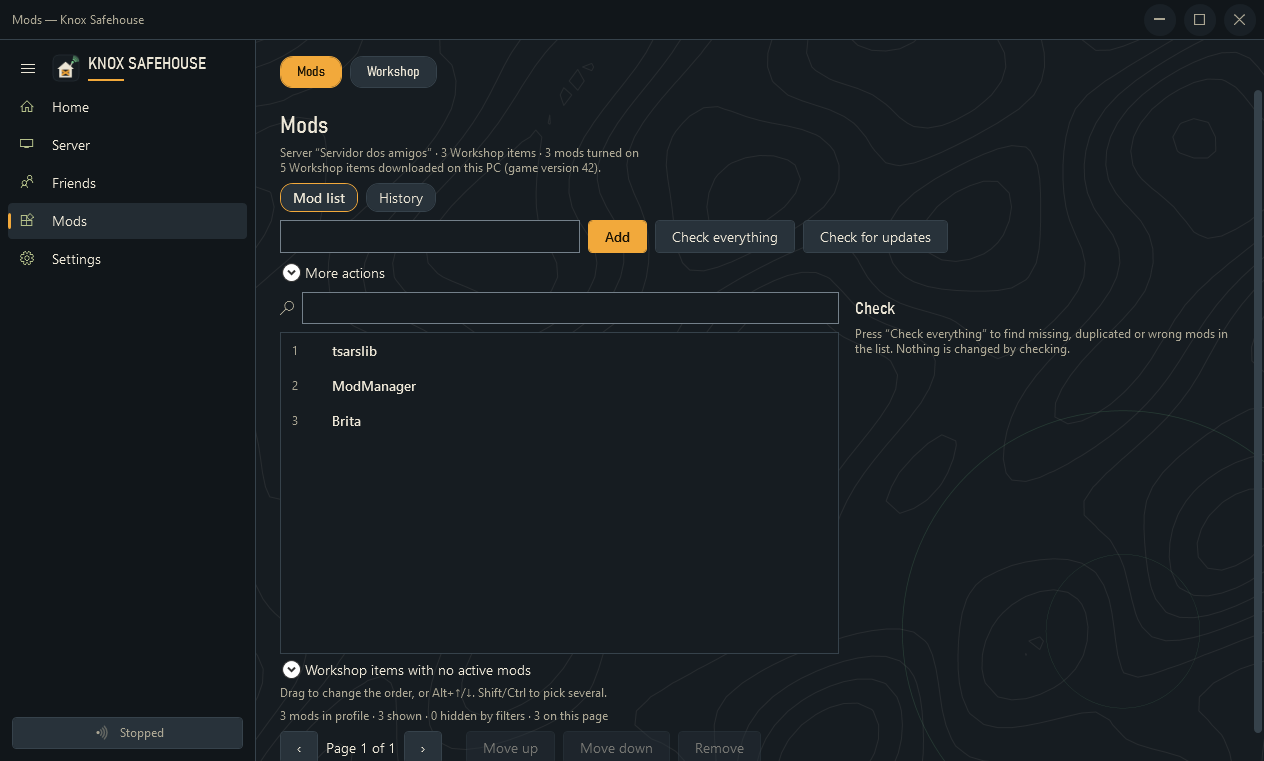
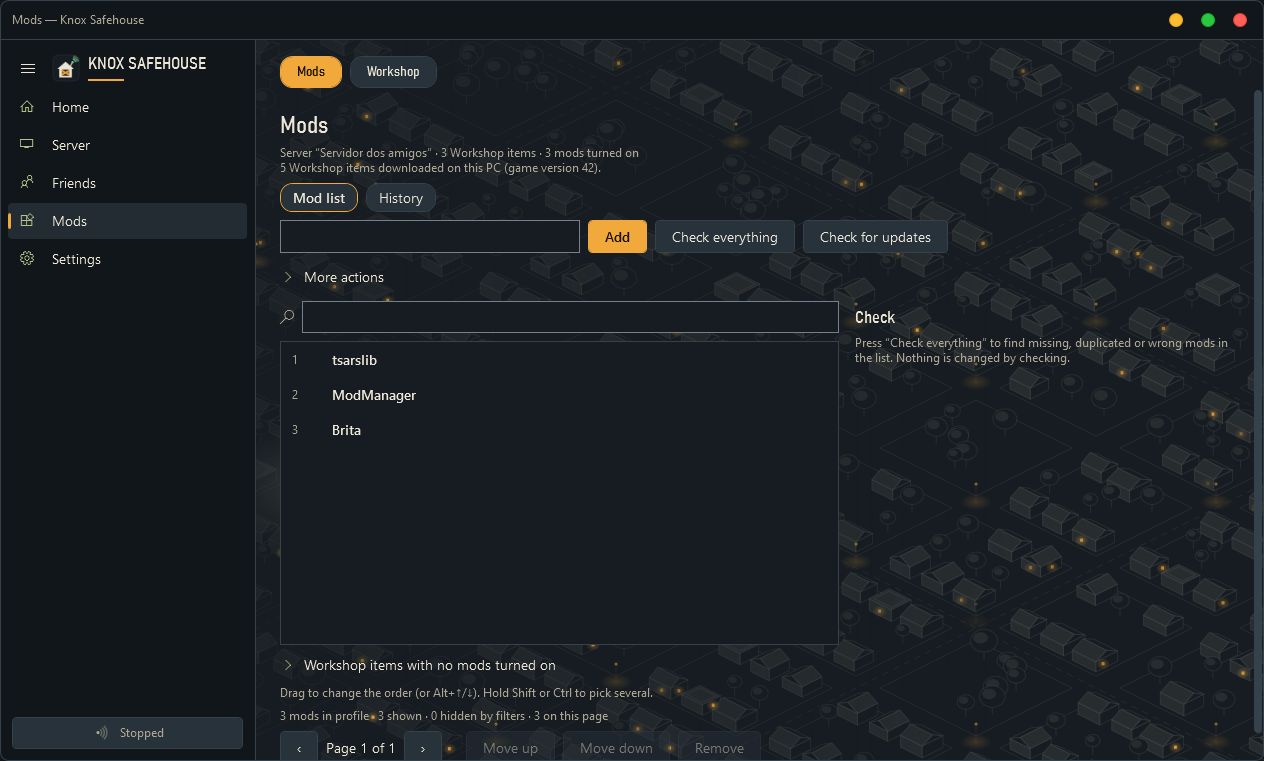
README: imagens novas (1.1) e secção «Coming soon: version 1.1»; o download continua a ser a 1.0

diff --git a/README.md b/README.md
@@ -15,6 +15,15 @@ A free Windows app that installs and runs a Project Zomboid dedicated server: Wo
 
 ![Knox Safehouse — Home](images/home.png)
 
+## 🔜 Coming soon: version 1.1
+The screenshots below already show 1.1. The download is still **1.0** until 1.1 is out.
+- **Smoother everywhere:** the side menu slides away slowly, pages fade in, rounded window corners and colourful window buttons.
+- **New living backgrounds** in the style of Project Zomboid's map, and **My theme** to pick your own colour and picture.
+- **Sign in to Steam inside the app** with a QR code, and **invite friends from Discord**.
+- **Create server:** choose the RAM, disk and number of players; passwords are required.
+- **Check the server** after creating it, and fix most problems with one click.
+- A proper install folder, a clear update window, and an uninstall where you choose what to delete.
+
 ## What it does
 - **The server in one click** — installs and updates the official dedicated server with SteamCMD (Valve's signature checked), start/stop/restart, a console with filters and command history, a daily restart that warns the players and copies the world.
 - **Mods in the right order** — add from the Workshop inside the app, paste links or a whole collection: Workshop IDs ↔ Mod IDs, the items a mod needs on the Workshop are downloaded too and their dependencies added automatically, drag to reorder, warnings when something is out of place, alerts for outdated or removed mods.
@@ -61,6 +70,8 @@ Licence: all rights reserved — free to download and use, no warranty.
 ---
 
 ## 🇵🇹 Português
+
+> 🔜 **A versão 1.1 vem em breve:** animações mais suaves, fundos novos e «O meu tema», login da Steam com código QR, convites pelo Discord, escolher a RAM/disco/jogadores do servidor e «Verificar o servidor». As imagens já mostram a 1.1; o download continua a ser a 1.0 até ela sair.
 
 **O teu servidor de Project Zomboid para os amigos, no ar em minutos.** App gratuita para Windows 10/11 que instala e gere um servidor dedicado: mods do Workshop pela ordem certa, firewall e convite para os amigos, sem linhas de comando.
 
